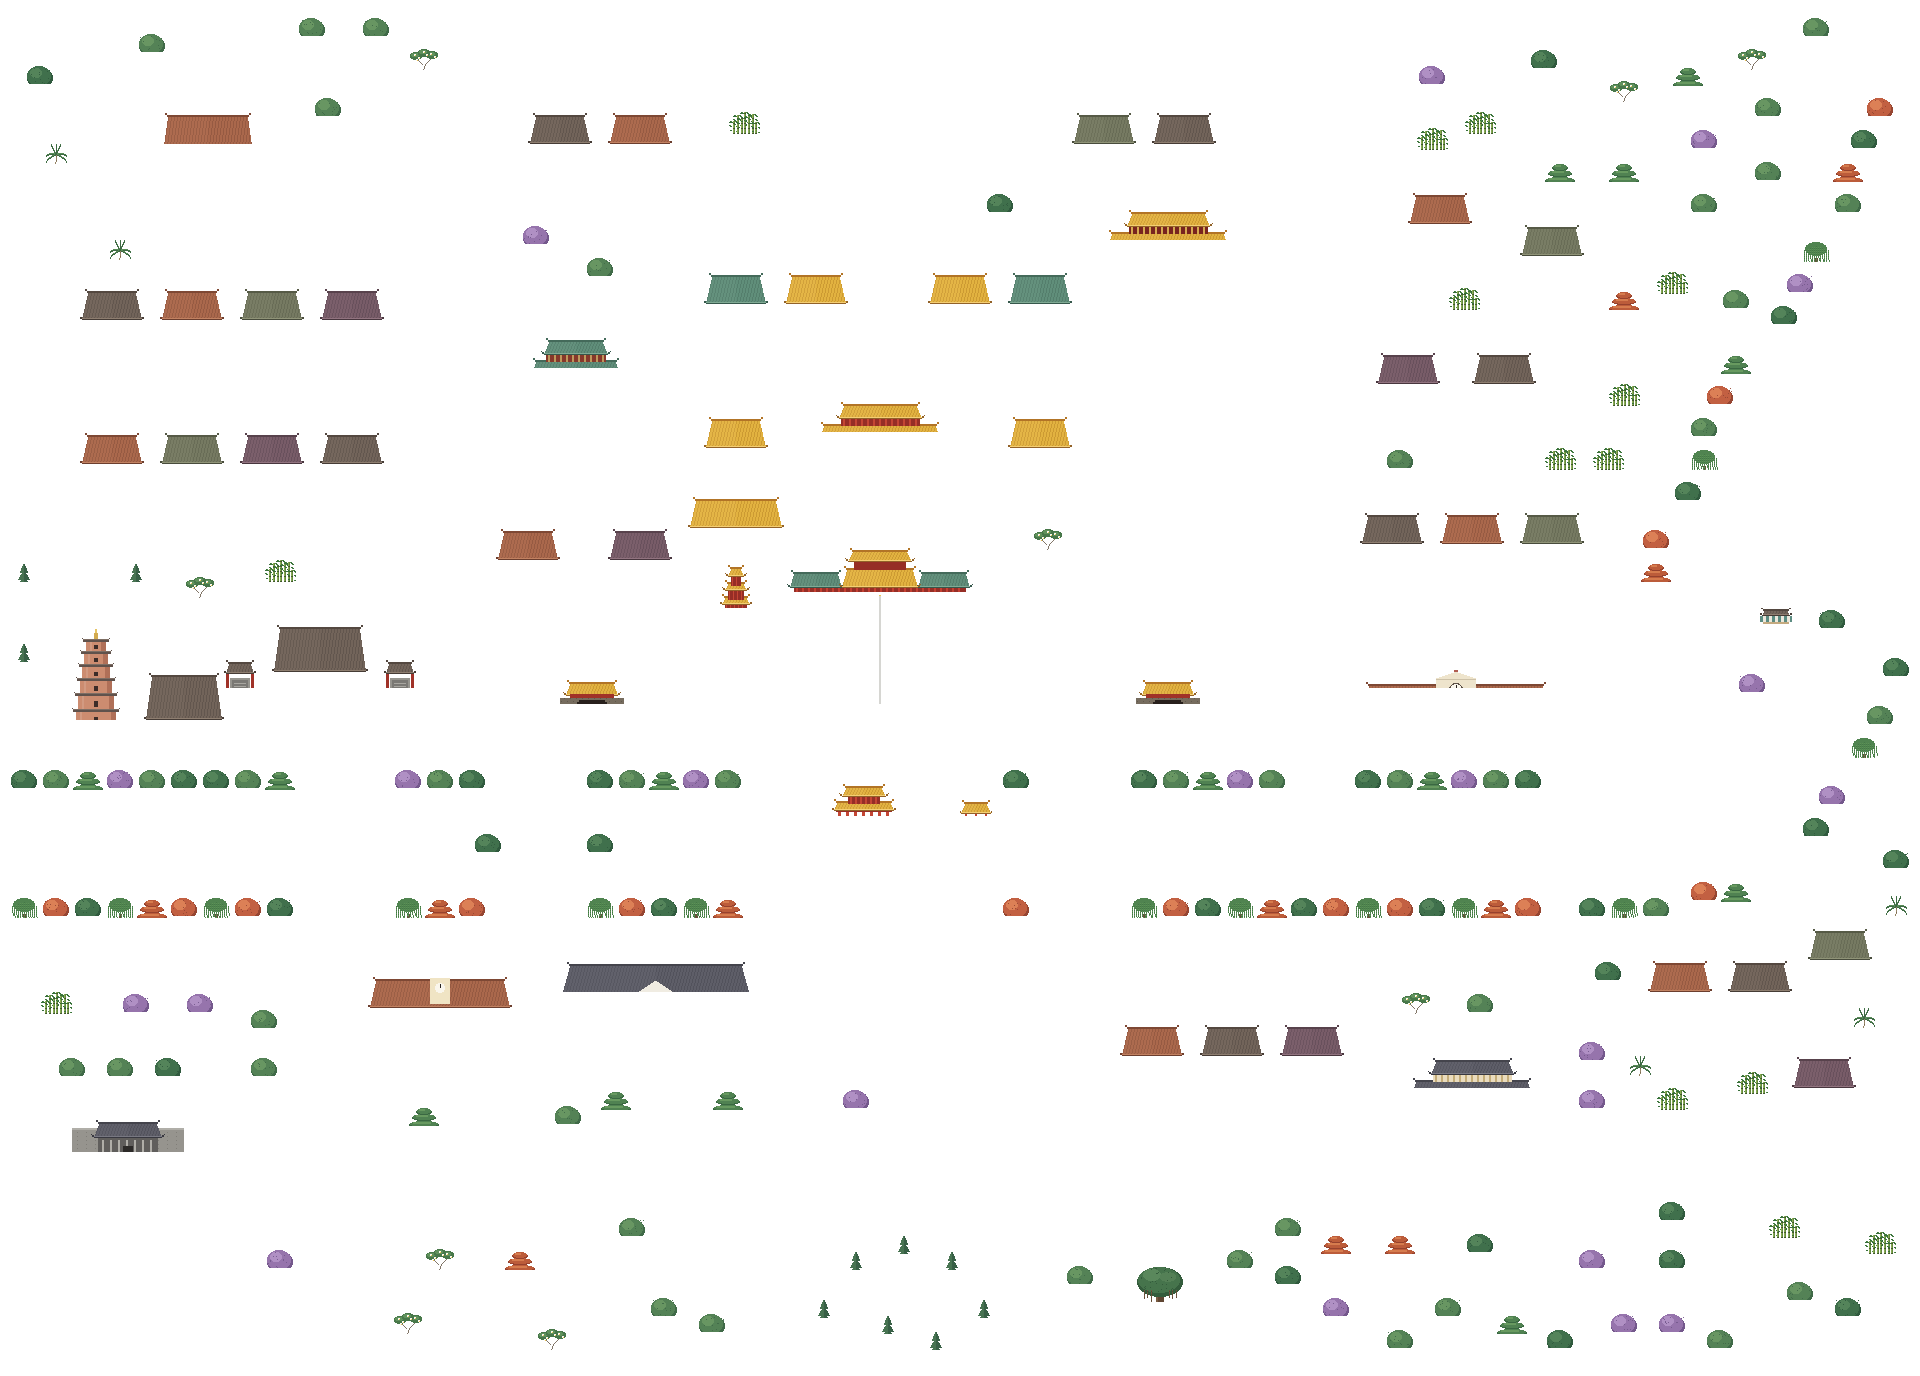
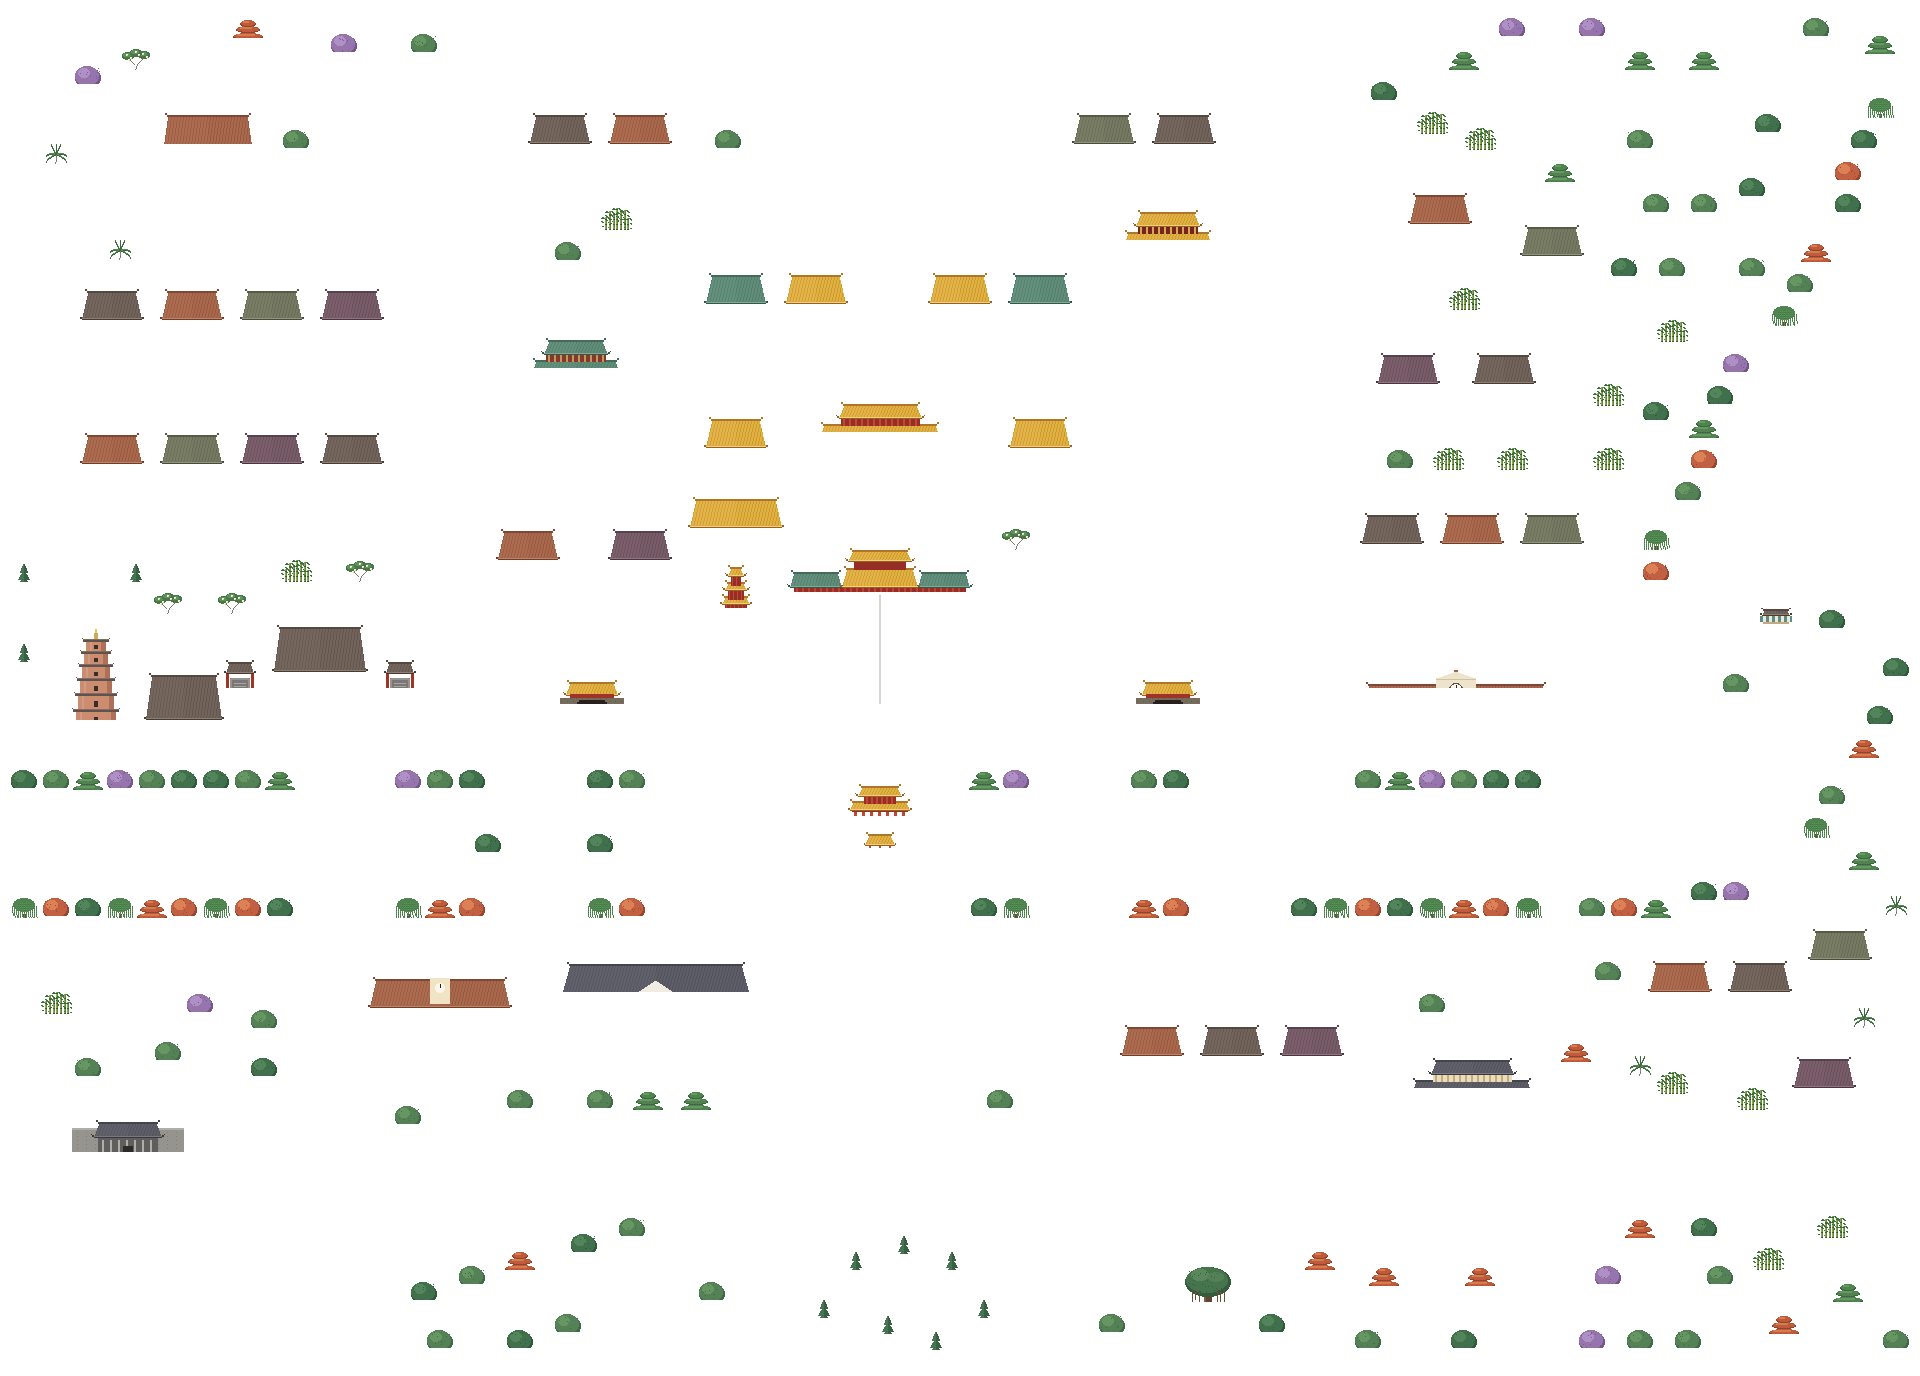
fix: bridges in their real order, Phu Văn Lâu on Kỳ Đài's axis, a way up to Tịnh Tâm
Phú Xuân and Trường Tiền both cross east of Kỳ Đài, Trường Tiền by the
south-east gate; Phu Văn Lâu and Nghênh Lương Đình now stand one behind the
other on the Ngọ Môn–Kỳ Đài axis, the dragon-boat wharf moved west of them.
The theatre no longer seals off the north of the Citadel, and a causeway
reaches Tịnh Tâm's pavilion. The --walls preview tints cut-off ground blue.

diff --git a/src/i18n/messages/vi/places.ts b/src/i18n/messages/vi/places.ts
@@ -138,7 +138,7 @@ export default {
   'places.phuVanLauFact': 'Danh sách những người đỗ đạt trong các khoa thi cũng được yết tại đây — người dân kéo đến bờ sông tìm tên mình.',
   'places.nghenhLuong': 'Nghênh Lương Đình',
   'places.nghenhLuongEn': 'Pavilion of the Cool Breeze',
-  'places.nghenhLuongAbout': 'Ngôi đình nhỏ sát mép nước cạnh Phu Văn Lâu, nơi vua nghỉ ngơi đón gió sông và xuống thuyền rồng.',
+  'places.nghenhLuongAbout': 'Ngôi đình nhỏ sát mép nước trước Phu Văn Lâu, nơi vua nghỉ ngơi đón gió sông và xuống thuyền rồng.',
   'places.nghenhLuongFact': 'Tên đình có nghĩa là “đón gió mát” — chiều hè ở Huế, không đâu dễ chịu hơn.',
   'places.theMieu': 'Thế Miếu',
   'places.theMieuEn': 'The Dynastic Temple',

diff --git a/src/i18n/messages/en/places.ts b/src/i18n/messages/en/places.ts
@@ -144,7 +144,7 @@ export default {
   'places.phuVanLauFact': 'The names of those who passed the royal exams were posted here too — crowds gathered on the bank to find their own.',
   'places.nghenhLuong': 'Nghênh Lương Đình',
   'places.nghenhLuongEn': 'Pavilion of the Cool Breeze',
-  'places.nghenhLuongAbout': 'A small pavilion at the water’s edge beside Phu Văn Lâu, where emperors rested in the river breeze and boarded the royal boats.',
+  'places.nghenhLuongAbout': 'A small pavilion at the water’s edge in front of Phu Văn Lâu, where emperors rested in the river breeze and boarded the royal boats.',
   'places.nghenhLuongFact': 'Its name means “the pavilion that welcomes the cool” — on a summer evening in Huế, there’s nowhere better to stand.',
   'places.theMieu': 'Thế Miếu',
   'places.theMieuEn': 'The Dynastic Temple',
